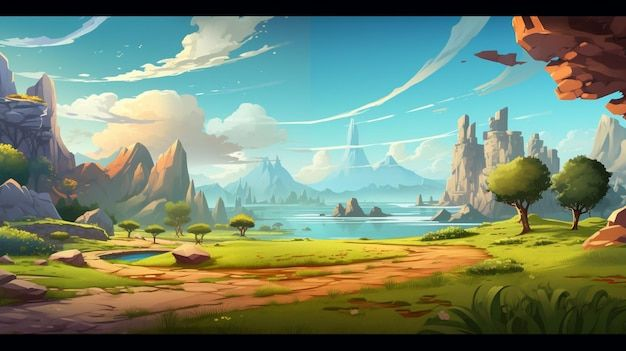
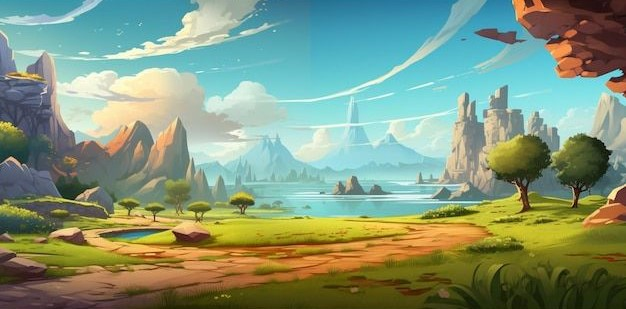
change

diff --git a/style.css b/style.css
@@ -1,3 +1,28 @@
+* {
+    margin: 0;
+    padding: 0;
+}
+
+body {
+    background: url(images/background-3.jpeg);
+    background-size: cover;
+    overflow: hidden;
+}
+
+/* .bird{
+    background: url(images/birds.jpeg);
+    background-color: transparent;
+    width: 130px;
+    height: 175px;
+    position: absolute;
+}
+
+.bird-1{
+    top: 5%;
+    left: 0;
+
+} */
+
 .container {
     width: 70%;
     margin: auto;
@@ -7,12 +32,9 @@
   .dice {
     text-align: center;
     display: inline-block;
-  
   }
   
-  body {
-    background-color: black;
-  }
+
   
   h1 {
     margin: 30px;

diff --git a/index.html b/index.html
@@ -7,7 +7,20 @@
     <title>Dice Game</title>
 </head>
 <body>
-    <div class="container">...</div>
+    <div class="container">
+        <!-- <div class="bird bird-1"></div> -->
+    </div>
+
+
+
+
+
+
+
+
+
+
+
     <Footer>"Dare to roll, dare to win - the dice await your destiny By Grace and Thato"</Footer>
     <script src="script.js"></script>
 </body>
